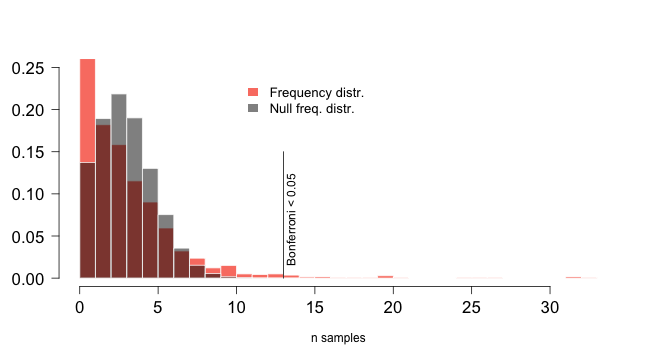
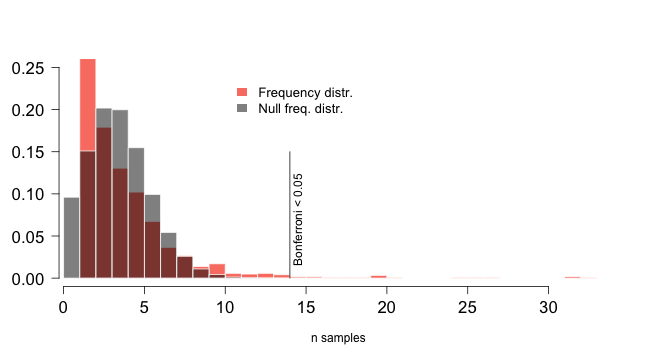
modified:   R/freq.p.test.r 	modified:   R/shattered.regions.r 	modified:   README.Rmd 	modified:   README.md 	modified:   figure/plot4.2-1.png 	modified:   figure/plot5-1.png 	modified:   man/freq.p.test.Rd 	modified:   man/shattered.regions.Rd 	modified:   vignettes/svcnvplus_howto.Rmd

diff --git a/README.md b/README.md
@@ -379,8 +379,9 @@ Most currently available cancer genomics datasets incorporate CNV characterizati
     * [Breakpoint burden analysis](#breakpoint-burden-analysis)
 * [Co-localization of breakpoints](#co\-localization-of-breakpoints)
 * [Identification of shattered regions](#identification-of-shattered-regions)
+    * [Chromosome shattering combining SV and CNV](#chromosome-shattering-using-sv-and-cnv)
     * [Chromosome shattering using CNV data only](#chromosome-shattering-using-cnv-data-only)
-    * [Chromosome shattering using CNV and SV data](#chromosome-shattering-using-cnv-and-sv-data)
+    * [Visualization of shattered regions](#visualization-of-shattered-regions)
     * [Recurrently shattered regions](#recurrently-shattered-regions)
 * [Recurrently altered genes](#recurrently-altered-genes)
     * [Gene level CNV](#gene-level-cnv)
@@ -617,43 +618,20 @@ segdf <- validate.seg(segdat_lung_ccle)
 svdf <- validate.sv(svdat_lung_ccle)
 ```
 
-### Chromosome shattering using CNV data only
+### Chromosome shattering combining SV and CNV 
 
-The whole genome is binned into user defined `window.size` (Mb) and slided by `slide.size` (Mb) in order to identify regions with high CNV breakpoint density. Two cutoffs are considered for each genomic bin:
-  
-* num.breaks = the minimum number of breakpoints
-* num.sd = the number of standard deviations above the average within a sample
-  
-In addition, we evaluate the interquantile average of the distance between breakpoints in a given region.
-  
-* dist.iqm.cut (default = 150000 b)
+1) Identification of genomic bins with high density of breakpoints
+    * The genome is binned into 10Mb windows (`window.size == 10`) and slide into 2Mb (`slide.size == 2`).
+    * Breakpoints are defined using `seg.breaks` (CNV), `sv.breaks` (SV) and `match.breaks` (common) and then mapped into bins; minimum thresholds are set using `num.seg.breaks = 6`, `num.sv.breaks = 6` and `num.common.breaks = 3` respectively.
+    * The number of breaks must be of shattered regions are spected to be out-liers therefor the n times above the average in each sample can be defined using `num.seg.sd = 5`, `num.sv.sd = 5` and `num.common.sd = 0`
 
+2) Identification if shattered regions
+    * Contiguous bins with high density of breakpoints are collapsed into shattered regions
+    * To discard complex focal events such as circular amplifications or double minutes, the interquartile average of the distances between breaks is set to `dist.iqm.cut = 150000`.
+    * Finaly shattered regions such as chromothripsis and chromoplexy produce interleaved SVs. We set the percentage of interleaved SVs with `interleaved.cut = 0.33` to discard regions with less than 33% interleaved variants.
 
-```r
-shatt_lung_cnv <- shattered.regions.cnv(segdf, fc.pct = 0.2, clean.brk = 4, window.size = 10,
-                                        min.num.probes = 3, slide.size = 2,num.breaks = 8, 
-                                        num.sd = 5, dist.iqm.cut = 150000,verbose=FALSE)
-shatt_lung_cnv$regions.summary$A549_LUNG
-```
+(more info `?shattered.regions`)
 
-```
-##   chrom     start       end nseg dist.iqm n.brk conf
-## 1  chr1 110206904 112706144    5 115758.5     9   lc
-## 2  chr3    377402  16241354    6 466057.7    22   HC
-## 3  chr4 168970791 176576580    1 778410.0     8   HC
-## 4  chr6  25347255  32530221    1 166325.0     8   HC
-## 5  chr7 134278307 149847513    3 143582.3    13   lc
-## 6 chr15  20586232  30894417    2 690287.2    10   HC
-```
-
-
-### Chromosome shattering using CNV and SV data
-
-Analogously we can combine CNVs and SVs breakpoins to obtain a more robust evaluation of chromosome shattering (see `?shattered.regions`) 
-In addition SVs provide linkage for each SV breakpoint pair which allows for an additional parametter:
-  
-* interleaved.cut the minimun percentage (0-1) of interleaved SVs
-    
 
 ```r
 shatt_lung <- shattered.regions(segdf, svdf, fc.pct = 0.05,  min.num.probes = 3, clean.brk = 4,
@@ -673,7 +651,31 @@ shatt_lung$regions.summary$NCIH522_LUNG
 ## 5 chr21  10994075  47273167   15     -  3.8e+07     294867.9   267349.74        65       67         31        34  0.08333333   HC
 ```
 
-Circos plotting is available via [circlize](https://cran.r-project.org/web/packages/circlize/index.html) package wrapper function  `circ.chromo.plot`:
+### Chromosome shattering using CNV data only
+
+A simplified version of `shattered regions` uses only CNV segmentation data, which is available in more often and in larger datasets. The `shattered.regions.cnv` follows the same approach but disregards parameters that are only available for SV data.
+
+
+```r
+shatt_lung_cnv <- shattered.regions.cnv(segdf, fc.pct = 0.2, clean.brk = 4, window.size = 10,
+                                        min.num.probes = 3, slide.size = 2,num.breaks = 8, 
+                                        num.sd = 5, dist.iqm.cut = 150000,verbose=FALSE)
+shatt_lung_cnv$regions.summary$A549_LUNG
+```
+
+```
+##   chrom     start       end nseg dist.iqm n.brk conf
+## 1  chr1 110206904 112706144    5 115758.5     9   lc
+## 2  chr3    377402  16241354    6 466057.7    22   HC
+## 3  chr4 168970791 176576580    1 778410.0     8   HC
+## 4  chr6  25347255  32530221    1 166325.0     8   HC
+## 5  chr7 134278307 149847513    3 143582.3    13   lc
+## 6 chr15  20586232  30894417    2 690287.2    10   HC
+```
+ 
+### Visualization of shattered regions
+
+Circos plotting is available via [circlize](https://cran.r-project.org/web/packages/circlize/index.html) package wrapper function  `circ.chromo.plot`, which takes an object generated by `shattered.regions` function. The circular plot represents (inward to outward): Structural variants, CNVs, shattered regions (purple) and the ideogram. 
 
 
 ```r
@@ -687,11 +689,11 @@ circ.chromo.plot(shatt_lung,sample.id = "NCIH510_LUNG")
 
 ### Recurrently shattered regions
 
-To establish whether certain regions suffer chromosome shatter-ing above expectation, we evaluate the null hypothesis that shat-tered regions occur throughout the genome at random; To this end we first create an empirical null distribution based on the sample set under study. The null is then compared with the ob-served distribution to obtain empirical p-values and corrected for multiple hypothesis testing. The corrected p-values deemed statis-tically significant define regions under selection pressure for chromosome shattering.
+To establish whether certain regions suffer chromosome shatter-ing above expectation, we evaluate the null hypothesis that shat-tered regions occur throughout the genome at random; To this end we first create an empirical null distribution based on the sample set under study. The null is then compared with the ob-served distribution (`shatt_lung_cnv$high.density.regions.hc`) to obtain empirical adjusted p-values. The bins with corrected p-values deemed statistically significant define regions under selection pressure for chromosome shattering. Since the genomic bins might span low coverage regions where no CNV or SVs are mapped we removed remove bins with frequancy = 0 detting the `zerofreq=TRUE`.
 
 
 ```r
-null.test <- freq.p.test(shatt_lung_cnv$high.density.regions.hc, method="bonferroni", p.cut = 0.05)
+null.test <- freq.p.test(shatt_lung_cnv$high.density.regions.hc, method="bonferroni", p.cut = 0.05, iter = 100, zerofreq=TRUE)
 
 # Compare observed frequencies versus the null distribution of recurrently shattered regions; 
 # the histogram bars represent proportion of genomic bins for each ginven number of samples found shattered
